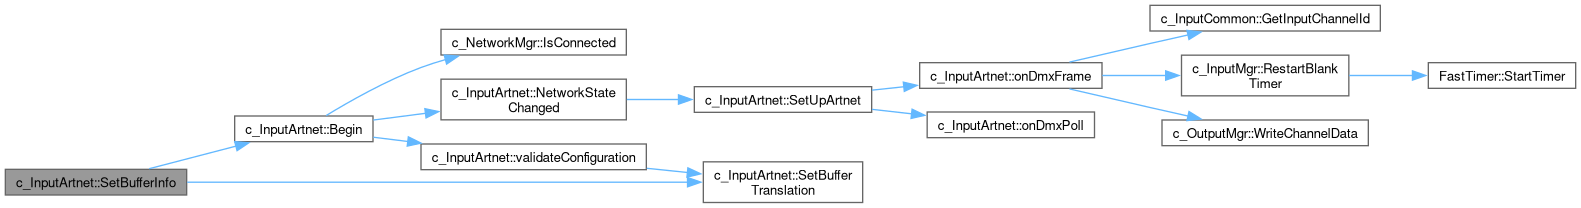
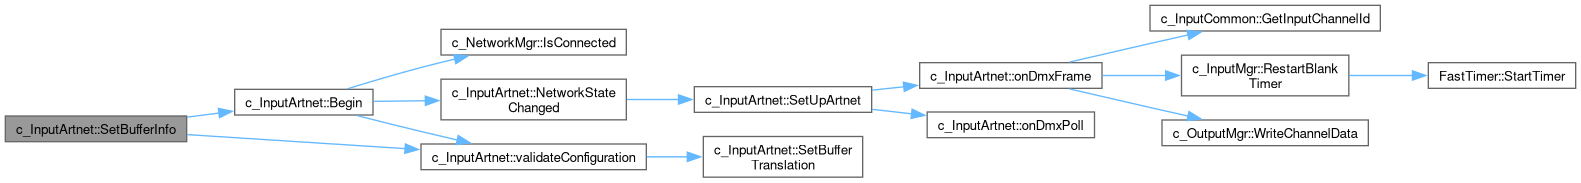
deploy: 561f6c377f7a195bc0cf692b3f1c8780e1d284f8

diff --git a/doxy/_input_artnet_8hpp_source.html b/doxy/_input_artnet_8hpp_source.html
@@ -196,10 +196,10 @@ $(function(){initNavTree('_input_artnet_8hpp_source.html',''); initResizable(tru
 <div class="ttc" id="aclassc___input_artnet_html_a2bc0ecce6c8fbe81ff83202888a405c6"><div class="ttname"><a href="classc___input_artnet.html#a2bc0ecce6c8fbe81ff83202888a405c6">c_InputArtnet::~c_InputArtnet</a></div><div class="ttdeci">virtual ~c_InputArtnet()</div><div class="ttdef"><b>Definition</b> InputArtnet.cpp:38</div></div>
 <div class="ttc" id="aclassc___input_artnet_html_a350ebf05f66c8365d822aca55b4c98bb"><div class="ttname"><a href="classc___input_artnet.html#a350ebf05f66c8365d822aca55b4c98bb">c_InputArtnet::UNIVERSE_MAX</a></div><div class="ttdeci">static const uint16_t UNIVERSE_MAX</div><div class="ttdef"><b>Definition</b> InputArtnet.hpp:27</div></div>
 <div class="ttc" id="aclassc___input_artnet_html_a3d6cf661e30f40ba8d89e58454043a67"><div class="ttname"><a href="classc___input_artnet.html#a3d6cf661e30f40ba8d89e58454043a67">c_InputArtnet::pArtnet</a></div><div class="ttdeci">Artnet * pArtnet</div><div class="ttdef"><b>Definition</b> InputArtnet.hpp:31</div></div>
-<div class="ttc" id="aclassc___input_artnet_html_a42c0a5c8c246a240d91d2d0b7c5757a3"><div class="ttname"><a href="classc___input_artnet.html#a42c0a5c8c246a240d91d2d0b7c5757a3">c_InputArtnet::NetworkStateChanged</a></div><div class="ttdeci">void NetworkStateChanged(bool IsConnected, bool RebootAllowed)</div><div class="ttdef"><b>Definition</b> InputArtnet.cpp:368</div></div>
+<div class="ttc" id="aclassc___input_artnet_html_a42c0a5c8c246a240d91d2d0b7c5757a3"><div class="ttname"><a href="classc___input_artnet.html#a42c0a5c8c246a240d91d2d0b7c5757a3">c_InputArtnet::NetworkStateChanged</a></div><div class="ttdeci">void NetworkStateChanged(bool IsConnected, bool RebootAllowed)</div><div class="ttdef"><b>Definition</b> InputArtnet.cpp:361</div></div>
 <div class="ttc" id="aclassc___input_artnet_html_a55224bac86616c4537ede70e7c26dcd9"><div class="ttname"><a href="classc___input_artnet.html#a55224bac86616c4537ede70e7c26dcd9">c_InputArtnet::ChannelsPerUniverse</a></div><div class="ttdeci">uint16_t ChannelsPerUniverse</div><div class="ttdoc">Universe boundary limit.</div><div class="ttdef"><b>Definition</b> InputArtnet.hpp:36</div></div>
 <div class="ttc" id="aclassc___input_artnet_html_a563a8812372831c86d5db8bee8e3cba9"><div class="ttname"><a href="classc___input_artnet.html#a563a8812372831c86d5db8bee8e3cba9">c_InputArtnet::Begin</a></div><div class="ttdeci">void Begin()</div><div class="ttdoc">set up the operating environment based on the current config (or defaults)</div><div class="ttdef"><b>Definition</b> InputArtnet.cpp:47</div></div>
-<div class="ttc" id="aclassc___input_artnet_html_a64e5300f0fc57fc4a667255119cbd510"><div class="ttname"><a href="classc___input_artnet.html#a64e5300f0fc57fc4a667255119cbd510">c_InputArtnet::SetUpArtnet</a></div><div class="ttdeci">void SetUpArtnet()</div><div class="ttdef"><b>Definition</b> InputArtnet.cpp:264</div></div>
+<div class="ttc" id="aclassc___input_artnet_html_a64e5300f0fc57fc4a667255119cbd510"><div class="ttname"><a href="classc___input_artnet.html#a64e5300f0fc57fc4a667255119cbd510">c_InputArtnet::SetUpArtnet</a></div><div class="ttdeci">void SetUpArtnet()</div><div class="ttdef"><b>Definition</b> InputArtnet.cpp:265</div></div>
 <div class="ttc" id="aclassc___input_artnet_html_a79d16153a8b4a8e1b17e9faa53217b84"><div class="ttname"><a href="classc___input_artnet.html#a79d16153a8b4a8e1b17e9faa53217b84">c_InputArtnet::UniverseArray</a></div><div class="ttdeci">Universe_t UniverseArray[MAX_NUM_UNIVERSES]</div><div class="ttdef"><b>Definition</b> InputArtnet.hpp:57</div></div>
 <div class="ttc" id="aclassc___input_artnet_html_a7c8914c1f765f22bf4e62ea8fa95b3a2"><div class="ttname"><a href="classc___input_artnet.html#a7c8914c1f765f22bf4e62ea8fa95b3a2">c_InputArtnet::GetDriverName</a></div><div class="ttdeci">void GetDriverName(String &amp;sDriverName)</div><div class="ttdoc">get the name for the instantiated driver</div><div class="ttdef"><b>Definition</b> InputArtnet.hpp:78</div></div>
 <div class="ttc" id="aclassc___input_artnet_html_a7e336e0df0e7b60981c0e59e98f2024d"><div class="ttname"><a href="classc___input_artnet.html#a7e336e0df0e7b60981c0e59e98f2024d">c_InputArtnet::Process</a></div><div class="ttdeci">virtual void Process()</div><div class="ttdoc">Call from loop(), renders Input data.</div><div class="ttdef"><b>Definition</b> InputArtnet.hpp:82</div></div>
@@ -207,11 +207,11 @@ $(function(){initNavTree('_input_artnet_8hpp_source.html',''); initResizable(tru
 <div class="ttc" id="aclassc___input_artnet_html_a8a0cdaf294b61764f398c09bc910b068"><div class="ttname"><a href="classc___input_artnet.html#a8a0cdaf294b61764f398c09bc910b068">c_InputArtnet::channel_count</a></div><div class="ttdeci">uint16_t channel_count</div><div class="ttdoc">from sketch globals</div><div class="ttdef"><b>Definition</b> InputArtnet.hpp:45</div></div>
 <div class="ttc" id="aclassc___input_artnet_html_a9396efd7449198caf16fb4cbc055277e"><div class="ttname"><a href="classc___input_artnet.html#a9396efd7449198caf16fb4cbc055277e">c_InputArtnet::SetBufferInfo</a></div><div class="ttdeci">void SetBufferInfo(uint32_t BufferSize)</div><div class="ttdef"><b>Definition</b> InputArtnet.cpp:180</div></div>
 <div class="ttc" id="aclassc___input_artnet_html_a9dedb65c78cedc3d329d33590cca3fbc"><div class="ttname"><a href="classc___input_artnet.html#a9dedb65c78cedc3d329d33590cca3fbc">c_InputArtnet::GetStatus</a></div><div class="ttdeci">void GetStatus(JsonObject &amp;jsonStatus)</div><div class="ttdef"><b>Definition</b> InputArtnet.cpp:85</div></div>
-<div class="ttc" id="aclassc___input_artnet_html_aa6db03c1ab9369151325ea72fd12516a"><div class="ttname"><a href="classc___input_artnet.html#aa6db03c1ab9369151325ea72fd12516a">c_InputArtnet::SetBufferTranslation</a></div><div class="ttdeci">void SetBufferTranslation()</div><div class="ttdef"><b>Definition</b> InputArtnet.cpp:200</div></div>
-<div class="ttc" id="aclassc___input_artnet_html_aa8ef414340a74ff9ba8caaf222e33b9b"><div class="ttname"><a href="classc___input_artnet.html#aa8ef414340a74ff9ba8caaf222e33b9b">c_InputArtnet::SetConfig</a></div><div class="ttdeci">bool SetConfig(JsonObject &amp;jsonConfig)</div><div class="ttdoc">Set a new config in the driver.</div><div class="ttdef"><b>Definition</b> InputArtnet.cpp:243</div></div>
+<div class="ttc" id="aclassc___input_artnet_html_aa6db03c1ab9369151325ea72fd12516a"><div class="ttname"><a href="classc___input_artnet.html#aa6db03c1ab9369151325ea72fd12516a">c_InputArtnet::SetBufferTranslation</a></div><div class="ttdeci">void SetBufferTranslation()</div><div class="ttdef"><b>Definition</b> InputArtnet.cpp:201</div></div>
+<div class="ttc" id="aclassc___input_artnet_html_aa8ef414340a74ff9ba8caaf222e33b9b"><div class="ttname"><a href="classc___input_artnet.html#aa8ef414340a74ff9ba8caaf222e33b9b">c_InputArtnet::SetConfig</a></div><div class="ttdeci">bool SetConfig(JsonObject &amp;jsonConfig)</div><div class="ttdoc">Set a new config in the driver.</div><div class="ttdef"><b>Definition</b> InputArtnet.cpp:244</div></div>
 <div class="ttc" id="aclassc___input_artnet_html_ab4bee64bcdc72ba0ccca461794b94887"><div class="ttname"><a href="classc___input_artnet.html#ab4bee64bcdc72ba0ccca461794b94887">c_InputArtnet::isShutDownRebootNeeded</a></div><div class="ttdeci">bool isShutDownRebootNeeded()</div><div class="ttdef"><b>Definition</b> InputArtnet.hpp:81</div></div>
 <div class="ttc" id="aclassc___input_artnet_html_abdc112016ca2ee2520738a850994943d"><div class="ttname"><a href="classc___input_artnet.html#abdc112016ca2ee2520738a850994943d">c_InputArtnet::startUniverse</a></div><div class="ttdeci">uint16_t startUniverse</div><div class="ttdoc">JSON configuration parameters.</div><div class="ttdef"><b>Definition</b> InputArtnet.hpp:34</div></div>
-<div class="ttc" id="aclassc___input_artnet_html_ac6bd00a3f820560363715444d2c51acc"><div class="ttname"><a href="classc___input_artnet.html#ac6bd00a3f820560363715444d2c51acc">c_InputArtnet::validateConfiguration</a></div><div class="ttdeci">void validateConfiguration()</div><div class="ttdef"><b>Definition</b> InputArtnet.cpp:301</div></div>
+<div class="ttc" id="aclassc___input_artnet_html_ac6bd00a3f820560363715444d2c51acc"><div class="ttname"><a href="classc___input_artnet.html#ac6bd00a3f820560363715444d2c51acc">c_InputArtnet::validateConfiguration</a></div><div class="ttdeci">void validateConfiguration()</div><div class="ttdef"><b>Definition</b> InputArtnet.cpp:302</div></div>
 <div class="ttc" id="aclassc___input_artnet_html_acf91f737e9f231b01b6b53ceb1d0a6fa"><div class="ttname"><a href="classc___input_artnet.html#acf91f737e9f231b01b6b53ceb1d0a6fa">c_InputArtnet::onDmxFrame</a></div><div class="ttdeci">void onDmxFrame(uint16_t CurrentUniverseId, uint32_t length, uint8_t sequence, uint8_t *data, IPAddress remoteIP)</div><div class="ttdef"><b>Definition</b> InputArtnet.cpp:116</div></div>
 <div class="ttc" id="aclassc___input_artnet_html_ae18005028b9d8ed8870824ba40b043cb"><div class="ttname"><a href="classc___input_artnet.html#ae18005028b9d8ed8870824ba40b043cb">c_InputArtnet::GetConfig</a></div><div class="ttdeci">void GetConfig(JsonObject &amp;jsonConfig)</div><div class="ttdoc">Get the current config used by the driver.</div><div class="ttdef"><b>Definition</b> InputArtnet.cpp:72</div></div>
 <div class="ttc" id="aclassc___input_artnet_html_aea8088f99572c09cecd383e4b1f33115"><div class="ttname"><a href="classc___input_artnet.html#aea8088f99572c09cecd383e4b1f33115">c_InputArtnet::lastData</a></div><div class="ttdeci">uint8_t lastData</div><div class="ttdef"><b>Definition</b> InputArtnet.hpp:42</div></div>

diff --git a/doxy/classc___input_artnet.html b/doxy/classc___input_artnet.html
@@ -784,17 +784,16 @@ Here is the call graph for this function:</div>
 <div class="dyncontent">
 <div class="center"><img src="classc___input_artnet_a9396efd7449198caf16fb4cbc055277e_cgraph.png" border="0" usemap="#aclassc___input_artnet_a9396efd7449198caf16fb4cbc055277e_cgraph" alt=""/></div>
 <map name="aclassc___input_artnet_a9396efd7449198caf16fb4cbc055277e_cgraph" id="aclassc___input_artnet_a9396efd7449198caf16fb4cbc055277e_cgraph">
-<area shape="rect" title=" " alt="" coords="5,169,187,195"/>
-<area shape="rect" href="classc___input_artnet.html#a563a8812372831c86d5db8bee8e3cba9" title="set up the operating environment based on the current config (or defaults)" alt="" coords="235,116,373,142"/>
-<area shape="poly" title=" " alt="" coords="148,166,235,144,237,149,150,171"/>
-<area shape="rect" href="classc___input_artnet.html#aa6db03c1ab9369151325ea72fd12516a" title=" " alt="" coords="703,162,863,202"/>
-<area shape="poly" title=" " alt="" coords="187,180,688,180,688,185,187,185"/>
-<area shape="rect" href="classc___network_mgr.html#adb2bfe0b52822c8b9936696d9d03031d" title=" " alt="" coords="441,29,626,55"/>
-<area shape="poly" title=" " alt="" coords="325,113,368,89,420,65,445,57,447,62,422,70,370,94,327,118"/>
-<area shape="rect" href="classc___input_artnet.html#a42c0a5c8c246a240d91d2d0b7c5757a3" title=" " alt="" coords="441,79,626,120"/>
-<area shape="poly" title=" " alt="" coords="373,117,425,111,426,116,374,123"/>
+<area shape="rect" title=" " alt="" coords="5,116,187,142"/>
+<area shape="rect" href="classc___input_artnet.html#a563a8812372831c86d5db8bee8e3cba9" title="set up the operating environment based on the current config (or defaults)" alt="" coords="235,89,373,115"/>
+<area shape="poly" title=" " alt="" coords="187,114,219,110,219,116,188,120"/>
 <area shape="rect" href="classc___input_artnet.html#ac6bd00a3f820560363715444d2c51acc" title=" " alt="" coords="421,144,646,170"/>
-<area shape="poly" title=" " alt="" coords="374,135,408,139,408,144,373,140"/>
+<area shape="poly" title=" " alt="" coords="187,132,405,146,405,151,187,137"/>
+<area shape="rect" href="classc___network_mgr.html#adb2bfe0b52822c8b9936696d9d03031d" title=" " alt="" coords="441,29,626,55"/>
+<area shape="poly" title=" " alt="" coords="347,86,420,65,454,56,456,62,422,70,348,91"/>
+<area shape="rect" href="classc___input_artnet.html#a42c0a5c8c246a240d91d2d0b7c5757a3" title=" " alt="" coords="441,79,626,120"/>
+<area shape="poly" title=" " alt="" coords="373,99,426,98,426,103,373,104"/>
+<area shape="poly" title=" " alt="" coords="358,113,422,129,458,137,457,143,420,134,356,118"/>
 <area shape="rect" href="classc___input_artnet.html#a64e5300f0fc57fc4a667255119cbd510" title=" " alt="" coords="694,87,872,112"/>
 <area shape="poly" title=" " alt="" coords="627,97,679,97,679,102,627,102"/>
 <area shape="rect" href="classc___input_artnet.html#acf91f737e9f231b01b6b53ceb1d0a6fa" title=" " alt="" coords="920,63,1102,88"/>
@@ -809,7 +808,8 @@ Here is the call graph for this function:</div>
 <area shape="poly" title=" " alt="" coords="1070,86,1151,105,1189,114,1188,119,1149,110,1069,92"/>
 <area shape="rect" href="class_fast_timer.html#a775ab52aa49e9a1f7092eefcbdbd673e" title="&lt; Start the module" alt="" coords="1428,63,1576,88"/>
 <area shape="poly" title=" " alt="" coords="1349,73,1413,73,1413,78,1349,78"/>
-<area shape="poly" title=" " alt="" coords="647,166,688,170,688,175,647,171"/>
+<area shape="rect" href="classc___input_artnet.html#aa6db03c1ab9369151325ea72fd12516a" title=" " alt="" coords="703,136,863,177"/>
+<area shape="poly" title=" " alt="" coords="647,154,687,154,687,160,647,160"/>
 </map>
 </div>
 
@@ -842,16 +842,16 @@ Here is the caller graph for this function:</div>
 <div class="dyncontent">
 <div class="center"><img src="classc___input_artnet_aa6db03c1ab9369151325ea72fd12516a_icgraph.png" border="0" usemap="#aclassc___input_artnet_aa6db03c1ab9369151325ea72fd12516a_icgraph" alt=""/></div>
 <map name="aclassc___input_artnet_aa6db03c1ab9369151325ea72fd12516a_icgraph" id="aclassc___input_artnet_aa6db03c1ab9369151325ea72fd12516a_icgraph">
-<area shape="rect" title=" " alt="" coords="717,5,877,46"/>
-<area shape="rect" href="classc___input_artnet.html#a9396efd7449198caf16fb4cbc055277e" title=" " alt="" coords="5,13,187,38"/>
-<area shape="poly" title=" " alt="" coords="702,28,187,28,187,23,702,23"/>
-<area shape="rect" href="classc___input_artnet.html#ac6bd00a3f820560363715444d2c51acc" title=" " alt="" coords="444,38,669,64"/>
-<area shape="poly" title=" " alt="" coords="702,38,670,42,670,36,702,33"/>
-<area shape="rect" href="classc___input_artnet.html#a563a8812372831c86d5db8bee8e3cba9" title="set up the operating environment based on the current config (or defaults)" alt="" coords="246,38,384,64"/>
-<area shape="poly" title=" " alt="" coords="428,54,385,54,385,48,428,48"/>
-<area shape="rect" href="classc___input_artnet.html#aa8ef414340a74ff9ba8caaf222e33b9b" title="Set a new config in the driver." alt="" coords="235,88,396,113"/>
-<area shape="poly" title=" " alt="" coords="476,70,382,89,381,84,475,65"/>
-<area shape="poly" title=" " alt="" coords="231,44,187,39,188,34,231,39"/>
+<area shape="rect" title=" " alt="" coords="717,48,877,89"/>
+<area shape="rect" href="classc___input_artnet.html#ac6bd00a3f820560363715444d2c51acc" title=" " alt="" coords="444,56,669,82"/>
+<area shape="poly" title=" " alt="" coords="702,72,670,72,670,66,702,66"/>
+<area shape="rect" href="classc___input_artnet.html#a563a8812372831c86d5db8bee8e3cba9" title="set up the operating environment based on the current config (or defaults)" alt="" coords="246,5,384,31"/>
+<area shape="poly" title=" " alt="" coords="477,55,379,34,380,29,478,50"/>
+<area shape="rect" href="classc___input_artnet.html#a9396efd7449198caf16fb4cbc055277e" title=" " alt="" coords="5,31,187,56"/>
+<area shape="poly" title=" " alt="" coords="429,64,187,51,187,46,429,59"/>
+<area shape="rect" href="classc___input_artnet.html#aa8ef414340a74ff9ba8caaf222e33b9b" title="Set a new config in the driver." alt="" coords="235,107,396,132"/>
+<area shape="poly" title=" " alt="" coords="478,88,380,109,379,103,477,83"/>
+<area shape="poly" title=" " alt="" coords="231,31,188,36,187,30,231,25"/>
 </map>
 </div>
 
@@ -992,13 +992,14 @@ Here is the caller graph for this function:</div>
 <div class="dyncontent">
 <div class="center"><img src="classc___input_artnet_ac6bd00a3f820560363715444d2c51acc_icgraph.png" border="0" usemap="#aclassc___input_artnet_ac6bd00a3f820560363715444d2c51acc_icgraph" alt=""/></div>
 <map name="aclassc___input_artnet_ac6bd00a3f820560363715444d2c51acc_icgraph" id="aclassc___input_artnet_ac6bd00a3f820560363715444d2c51acc_icgraph">
-<area shape="rect" title=" " alt="" coords="444,31,669,56"/>
+<area shape="rect" title=" " alt="" coords="444,56,669,82"/>
 <area shape="rect" href="classc___input_artnet.html#a563a8812372831c86d5db8bee8e3cba9" title="set up the operating environment based on the current config (or defaults)" alt="" coords="246,5,384,31"/>
-<area shape="poly" title=" " alt="" coords="428,33,385,28,385,23,429,27"/>
-<area shape="rect" href="classc___input_artnet.html#aa8ef414340a74ff9ba8caaf222e33b9b" title="Set a new config in the driver." alt="" coords="235,55,396,80"/>
-<area shape="poly" title=" " alt="" coords="428,59,397,62,396,57,428,54"/>
-<area shape="rect" href="classc___input_artnet.html#a9396efd7449198caf16fb4cbc055277e" title=" " alt="" coords="5,5,187,31"/>
-<area shape="poly" title=" " alt="" coords="231,21,187,21,187,16,231,16"/>
+<area shape="poly" title=" " alt="" coords="477,55,379,34,380,29,478,50"/>
+<area shape="rect" href="classc___input_artnet.html#a9396efd7449198caf16fb4cbc055277e" title=" " alt="" coords="5,31,187,56"/>
+<area shape="poly" title=" " alt="" coords="429,64,187,51,187,46,429,59"/>
+<area shape="rect" href="classc___input_artnet.html#aa8ef414340a74ff9ba8caaf222e33b9b" title="Set a new config in the driver." alt="" coords="235,107,396,132"/>
+<area shape="poly" title=" " alt="" coords="478,88,380,109,379,103,477,83"/>
+<area shape="poly" title=" " alt="" coords="231,31,188,36,187,30,231,25"/>
 </map>
 </div>
 
